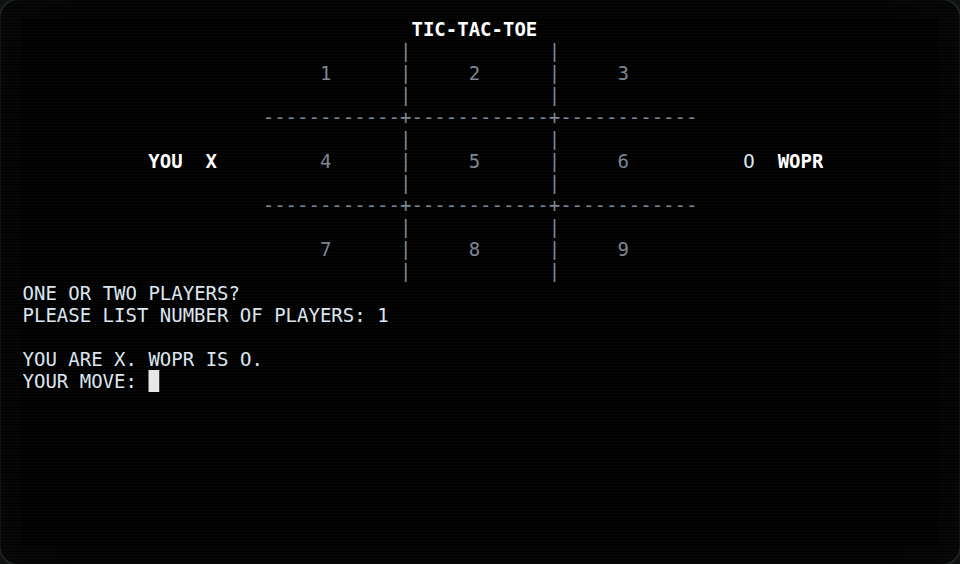
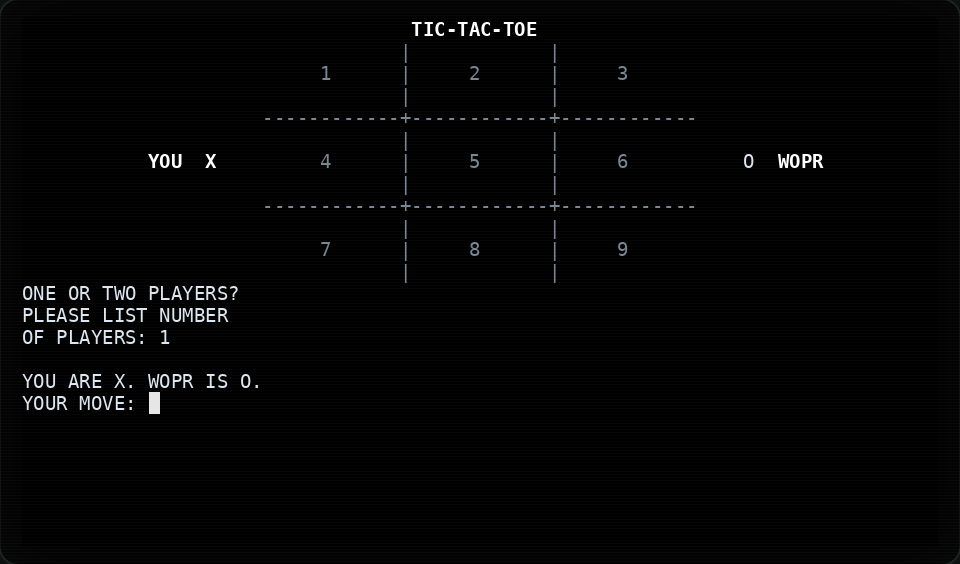
docs: re-record the screenshots that PR #25 made stale
Ten screenshots showed text the film text pass changed: the two-space
LOGON: prompt and greeting, List Games on an open line, the kill-ratio
table, the three-line climax notice, tic-tac-toe's players prompt, and
the side choice in the imsai and amber themes. Each is recorded again
from the program in an 80x24 terminal, in the same frame and font as
the rest. Two captions say what the new screens show.

Claude-Session: https://claude.ai/code/session_017DVS9HkMQ43U6ZTQfLFdDN

diff --git a/site/content/usage/_index.md b/site/content/usage/_index.md
@@ -69,7 +69,7 @@ empty value counts as unset.
 know drops the line, and WOPR dials again. Every third failed try, it gives you a hint. At `LOGON:` you
 can also type `HELP LOGON`, `HELP GAMES` and `LIST GAMES`, as David does in the film.
 
-{{< screenshot src="img/logon-2.png" caption="`HELP GAMES` and `LIST GAMES` at the `LOGON:` prompt, before logging on." >}}
+{{< screenshot src="img/logon-2.png" caption="`HELP GAMES` at the `LOGON:` prompt, then `LIST GAMES` on the open line that follows, as in the film." >}}
 
 ## Talking to WOPR
 
